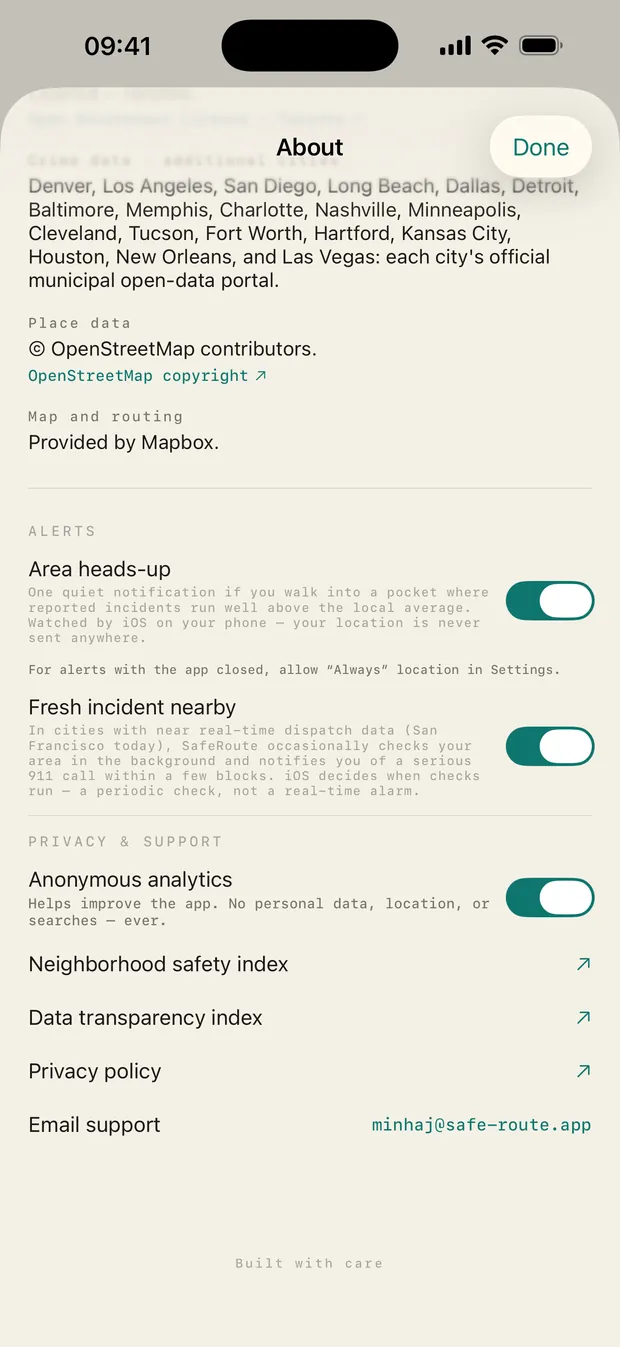
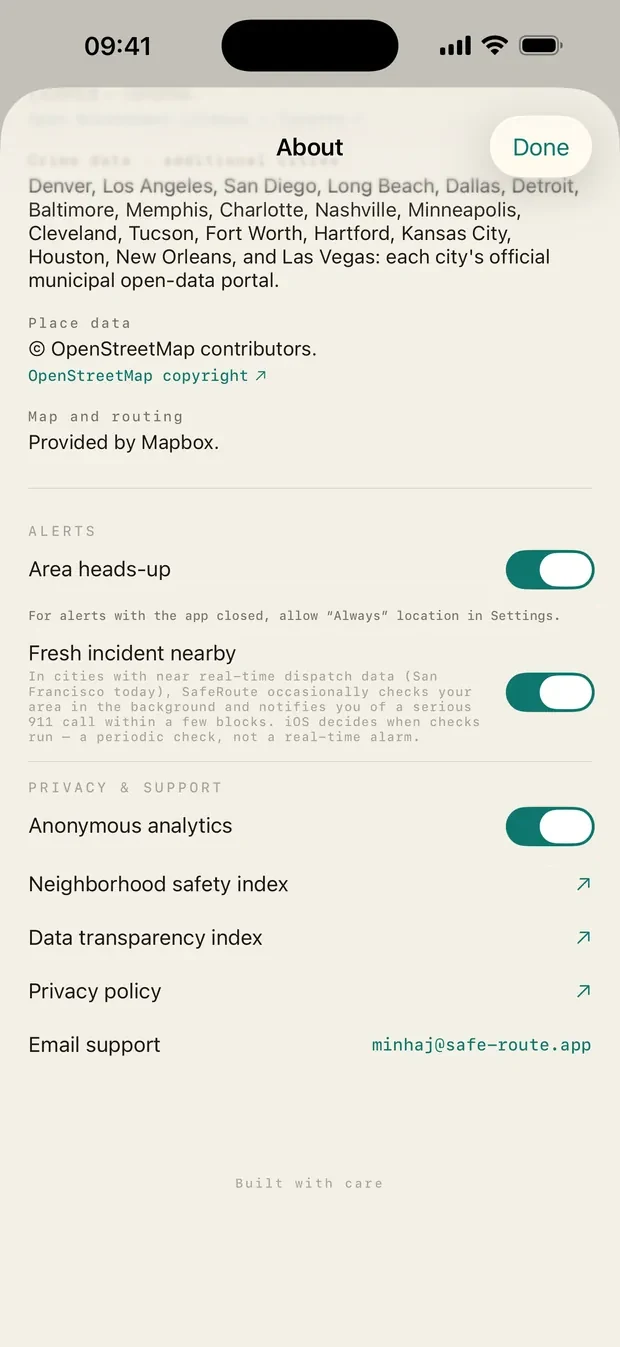
Homepage: remove two captions from the app screenshot that contradict the policy
The About-screen screenshot beside the privacy section (from August) showed
"Watched by iOS on your phone - your location is never sent anywhere" under
Area heads-up and "No personal data, location, or searches - ever" under
Anonymous analytics. The privacy policy of 29 September 2026 says the released
app (1.3.7) sends your location when iOS relaunches it in the background for
Area heads-up, and that the analytics carry a pseudonymous per-install ID.

Both captions are erased, each switch is moved level with its title as it sits
without a caption, the emptied rows are closed up, and plain background is
added at the bottom so the image stays 620 x 1347. The Fresh incident nearby
caption is accurate and stays. The alt text said both alerts were "off by
default" while the switches shown are on; it now describes what is shown.

diff --git a/index.html b/index.html
@@ -426,7 +426,7 @@
       </div>
       <div class="row-media reveal">
         <div class="phone"><img src="assets/shot-alerts-settings.webp" width="620" height="1347" loading="lazy"
-          alt="SafeRoute alert settings showing both alert types off by default with plain-English explanations"></div>
+          alt="SafeRoute's About screen, with switches for Area heads-up, Fresh incident nearby and anonymous analytics"></div>
       </div>
     </div>
   </div>
